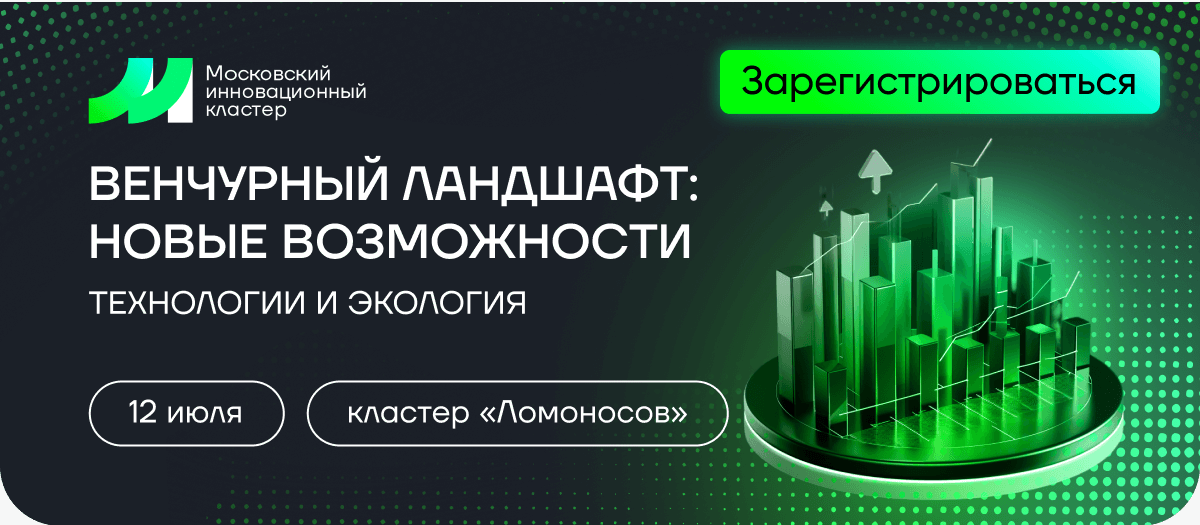
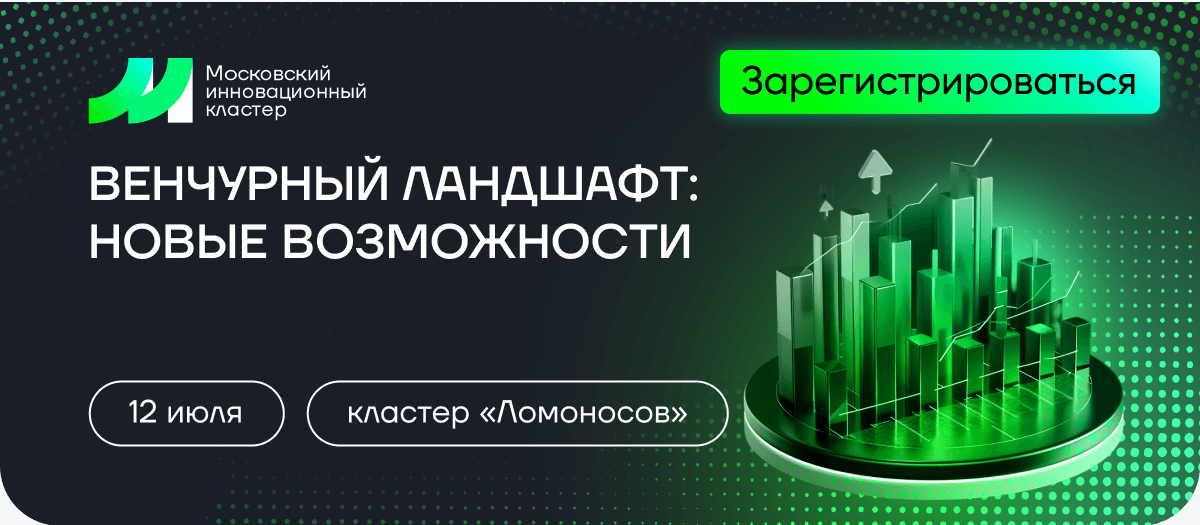
change mik-114

Changed region(s): [[0.0617, 0.5486, 0.4625, 0.6095]]

diff --git a/mik-114/Венчурный ландшафт.html b/mik-114/Венчурный ландшафт.html
@@ -103,7 +103,7 @@
                                         <tr>
                                             <td style="width:600px;">
                                                 <a href="https://i.moscow/event/4735bd014a3e4cd5ac96be21913be7df?utm_source=marketing&utm_medium=e&utm_campaign=digital&utm_content=landshaft&utm_term=2606" target="_blank">
-                                                    <img alt="Венчурный ландшафт: новые возможности. Технологии и Экология. 12 июля. Кластер «Ломоносов». Нажмите здесь, чтобы зарегистрироваться" height="auto" src="https://cp.unisender.com/ru/user_file?resource=images&user_id=5608985&name=mik-114-hero.png" style="border:0;display:block;outline:none;text-decoration:none;height:auto;width:100%;font-size:13px;" width="600" />
+                                                    <img alt="Венчурный ландшафт: новые возможности. 12 июля. Кластер «Ломоносов». Нажмите здесь, чтобы зарегистрироваться" height="auto" src="https://cp.unisender.com/ru/user_file?resource=images&user_id=5608985&name=mik-114-hero.png" style="border:0;display:block;outline:none;text-decoration:none;height:auto;width:100%;font-size:13px;" width="600" />
                                                 </a>
                                             </td>
                                         </tr>
